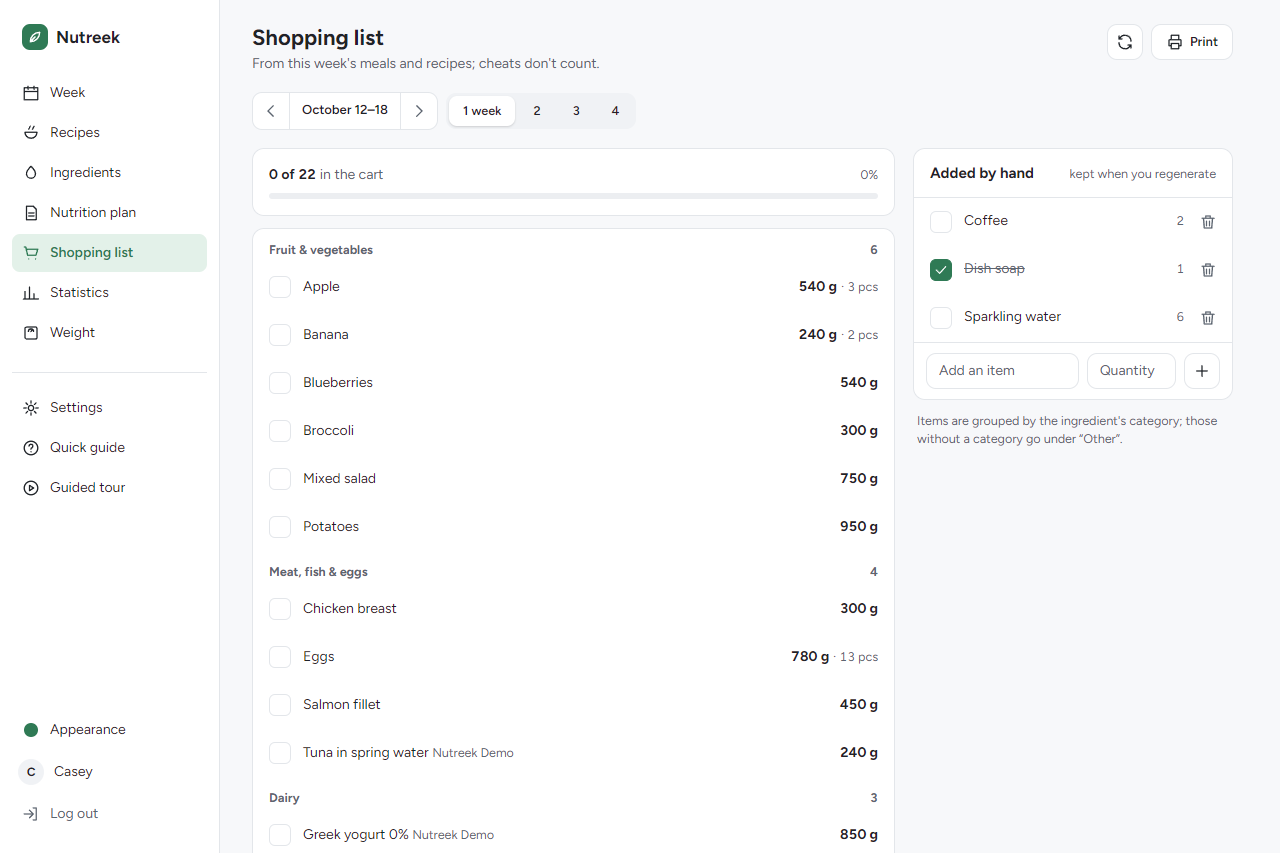
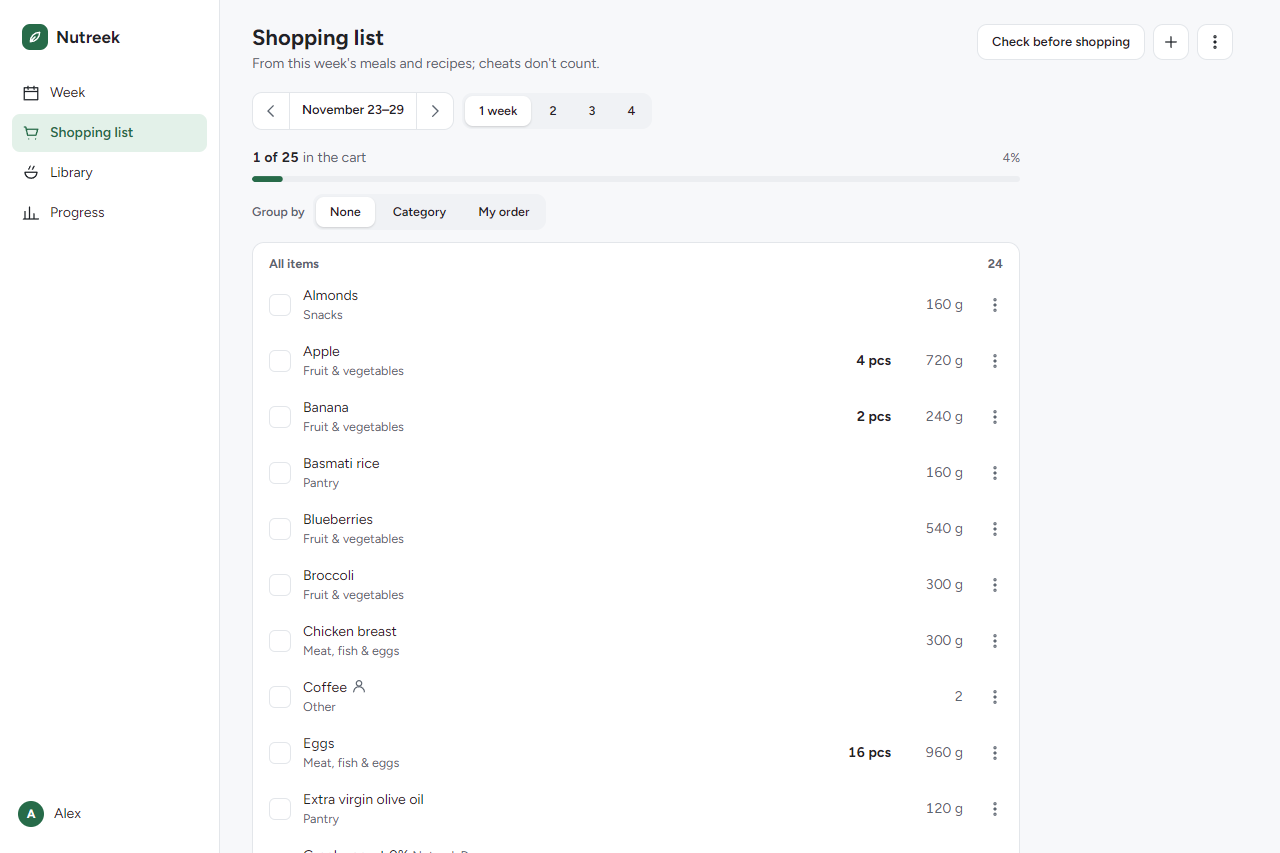
Update Nutreek to v3.0.0: new screenshots and the features since 2.2.0

diff --git a/nutreek.html b/nutreek.html
@@ -7,7 +7,7 @@
     <title>Nutreek — Self-hosted weekly nutrition planner · Carlo Ruggiero</title>
     <meta
       name="description"
-      content="Nutreek is a self-hosted weekly nutrition planner: meal plans, macros per meal, day and week, offline OpenFoodFacts search, a barcode scanner, adaptive TDEE, weight and hydration tracking, and a coach mode. Installable on your phone."
+      content="Nutreek is a self-hosted weekly nutrition planner: meal plans with macros per meal, day and week, offline OpenFoodFacts search, a barcode scanner, a shopping list that can show a connected store's prices, a week shared with up to six other people, reminders, adaptive TDEE, weight and hydration tracking, and a coach mode. Installable on your phone."
     />
     <!-- /data -->
     <meta name="theme-color" content="#22594b" media="(prefers-color-scheme: light)" />
@@ -176,7 +176,7 @@
       <main>
         <section class="paper label-sheet" style="--c: var(--nutreek)">
           <img class="mark" src="nutreek.svg" alt="" width="56" height="56" />
-          <p class="state"><!-- data:nutreek.state --><span data-release="easly1989/nutreek">Shipping, v2.2.0</span>. Open source under AGPL-3.0. Self-hosted.<!-- /data --></p>
+          <p class="state"><!-- data:nutreek.state --><span data-release="easly1989/nutreek">Shipping, v3.0.0</span>. Open source under AGPL-3.0. Self-hosted.<!-- /data --></p>
           <h1><!-- data:nutreek.name -->Nutreek<!-- /data --></h1>
           <p class="lede">
             <!-- data:nutreek.lede -->
@@ -234,8 +234,9 @@
                 </p>
                 <p style="color: var(--paper-ink-2); font-size: 0.92rem">
                   It runs natively as a single Go binary, or as one Docker container. SQLite is
-                  embedded, so there is no separate database to operate. The interface is in English
-                  and Italian, in light and dark, and installs on a phone like an app.
+                  embedded, so there is no separate database to operate. The interface is rows and
+                  rules instead of cards, in English and Italian, in light and dark, and installs on
+                  a phone like an app.
                 </p>
                 <span class="folio">Monday</span>
               </section>
@@ -244,8 +245,8 @@
                 <h2>The week, one day at a time</h2>
                 <div class="shots">
                 <figure class="shot" style="--r: -1.2deg">
-                  <img width="1280" height="853" src="assets/nutreek-week.png" alt="Nutreek week view: day tabs with calories, the day's meals with macros, a calorie ring, water and a workout" loading="lazy" />
-                  <figcaption>The meals with their macros, and beside them the calorie ring, water and workouts.</figcaption>
+                  <img width="1280" height="853" src="assets/nutreek-week.png" alt="Nutreek week view: day tabs with calories, the day's meals with their times and macros, a calorie ring and the protein, carbs and fat bars" loading="lazy" />
+                  <figcaption>The day's meals with their times and macros, and the calorie ring above them.</figcaption>
                 </figure>
                 <figure class="shot" style="--r: 1.5deg">
                   <img width="1280" height="853" src="assets/nutreek-week-dark.png" alt="The week view in dark mode" loading="lazy" />
@@ -261,11 +262,11 @@
                 <div class="day"><b>Wednesday</b><span></span></div>
                 <h2>Features</h2>
                 <ul class="rows">
-                  <li><b>Weekly plans</b><span>A calorie ring and macros per meal, day and week, water and workouts, cheat meals, and one-click copy from the previous week.</span></li>
-                  <li><b>Ingredients</b><span>A local copy of OpenFoodFacts, updated daily: full-text search offline, with product photos.</span></li>
-                  <li><b>Barcode scanner</b><span>Scan a pack from any food picker: your own ingredients first, then the local OpenFoodFacts copy.</span></li>
-                  <li><b>On your phone</b><span>Installs as an app, with a bottom bar. Light, dark or system, in four colours.</span></li>
-                  <li><b>Recipes and templates</b><span>Recipes from ingredients or imported from a URL (schema.org/Recipe), with a photo and quantities you edit in place, in grams or pieces; weekly templates applied in one click.</span></li>
+                  <li><b>Weekly plans</b><span>A calorie ring and macros per meal, day and week. Meals have a time; move a row or swap its ingredient. Cheat meals, and one-click copy of last week.</span></li>
+                  <li><b>Ingredients and scanner</b><span>A local OpenFoodFacts copy, updated daily: offline full-text search with photos, and a barcode scanner in every food picker.</span></li>
+                  <li><b>Recipes and templates</b><span>Built from ingredients or imported from a URL, with a photo you can hide in the list; weekly templates in one click.</span></li>
+                  <li><b>Shopping list</b><span>One list for the week and what you add by hand: by name, category or your own order. Tick what you already have.</span></li>
+                  <li><b>On your phone</b><span>Installs as an app with a four-destination bottom bar, and sends reminders for water, training and meals, even when closed.</span></li>
                 </ul>
                 <span class="folio">Wednesday</span>
               </section>
@@ -273,11 +274,11 @@
                 <div class="day"><b>Thursday</b><span></span></div>
                 <h2>More features</h2>
                 <ul class="rows">
-                  <li><b>Auto plan generator</b><span>A greedy planner builds a whole week from meal variants to hit your macro targets.</span></li>
-                  <li><b>Adaptive TDEE</b><span>Estimates your real energy needs from your weight and intake trend, and suggests target updates.</span></li>
-                  <li><b>Weight, hydration, workouts</b><span>Daily tracking with trend charts, a workout log with calories burned and a weekly dashboard.</span></li>
-                  <li><b>Coach mode</b><span>A plan library, client assignment, frozen plan history and a coach dashboard.</span></li>
-                  <li><b>Shopping list and REST API</b><span>The week's shopping grouped by aisle, with a cart and a two-column print, and a bearer-token REST API.</span></li>
+                  <li><b>Household</b><span>Up to six other people share your week, each with a calorie goal and no login. Quantities scale to the goal, and the shopping list adds everyone up.</span></li>
+                  <li><b>Stores</b><span>Connect a grocery store with a click (Conad comes with Nutreek): its products appear in the ingredient search, and the shopping list shows indicative prices.</span></li>
+                  <li><b>Auto plan and adaptive TDEE</b><span>A greedy planner builds a week from meal variants to hit your macros, and your real energy needs are estimated from your weight and intake trend.</span></li>
+                  <li><b>Weight, hydration, workouts</b><span>Daily tracking with trend charts, and a workout log with activities of your own and an estimate of the calories burned.</span></li>
+                  <li><b>Coach mode and API</b><span>A plan library, client assignment and a coach dashboard, and a bearer-token REST API.</span></li>
                 </ul>
                 <span class="folio">Thursday</span>
               </section>
@@ -290,7 +291,7 @@
                 <div class="shots">
                   <figure class="shot" style="--r: -2deg"><img width="1280" height="853" src="assets/nutreek-scanner.png" alt="The barcode scanner open over the food picker" loading="lazy" /><figcaption>The barcode scanner, from the food picker.</figcaption></figure>
                   <figure class="shot" style="--r: 1.5deg"><img width="1280" height="853" src="assets/nutreek-barcode.png" alt="The scanned product ready to add" loading="lazy" /><figcaption>The scanned product: pick the grams, see the calories.</figcaption></figure>
-                  <figure class="shot" style="--r: 1deg"><img width="1920" height="1280" src="assets/nutreek-phone.png" alt="Three phone screens: the week, the scanner and the shopping list" loading="lazy" /><figcaption>On the phone, with the bottom bar.</figcaption></figure>
+                  <figure class="shot" style="--r: 1deg"><img width="1920" height="1280" src="assets/nutreek-phone.png" alt="Three phone screens: the week, the scanner and the shopping list" loading="lazy" /><figcaption>On the phone, with four destinations in the bottom bar.</figcaption></figure>
                   <figure class="shot" style="--r: -1.5deg"><img width="1280" height="853" src="assets/nutreek-recipes.png" alt="Recipe list with calories and macros per serving" loading="lazy" /><figcaption>Recipes, with macros per serving.</figcaption></figure>
                 </div>
                 <span class="folio">Friday</span>
@@ -299,8 +300,8 @@
                 <div class="day"><b>Saturday</b><span></span></div>
                 <h2>Planning ahead</h2>
                 <div class="shots">
-                  <figure class="shot" style="--r: 1.5deg"><img width="1280" height="853" src="assets/nutreek-plan.png" alt="Nutrition plan with the variants of breakfast and lunch" loading="lazy" /><figcaption>The plan: variants for each meal.</figcaption></figure>
-                  <figure class="shot" style="--r: -1deg"><img width="1280" height="853" src="assets/nutreek-shopping.png" alt="Shopping list grouped by aisle" loading="lazy" /><figcaption>The shopping list, by aisle.</figcaption></figure>
+                  <figure class="shot" style="--r: 1.5deg"><img width="1280" height="853" src="assets/nutreek-plan.png" alt="Nutrition plan with the variants of each meal as closed rows, the first one open" loading="lazy" /><figcaption>The plan: variants for each meal, open on a tap.</figcaption></figure>
+                  <figure class="shot" style="--r: -1deg"><img width="1280" height="853" src="assets/nutreek-shopping.png" alt="Shopping list with a switch to group by nothing, by category or in your own order" loading="lazy" /><figcaption>The shopping list: by name, by category or in your order.</figcaption></figure>
                   <figure class="shot" style="--r: -2deg"><img width="1280" height="853" src="assets/nutreek-stats.png" alt="Statistics in dark mode with estimated energy needs" loading="lazy" /><figcaption>Statistics and adaptive TDEE.</figcaption></figure>
                   <figure class="shot" style="--r: 1deg"><img width="1280" height="853" src="assets/nutreek-coach.png" alt="Coach panel with a client and the plan library" loading="lazy" /><figcaption>The coach panel and plan library.</figcaption></figure>
                 </div>

diff --git a/pro/nutreek.html b/pro/nutreek.html
@@ -6,7 +6,7 @@
     <title>Nutreek — Self-hosted weekly nutrition planner · Carlo Ruggiero</title>
     <meta
       name="description"
-      content="Nutreek is a self-hosted weekly nutrition planner: meal plans, macros per meal, day and week, offline OpenFoodFacts search, a barcode scanner, adaptive TDEE, weight and hydration tracking, and a coach mode. Installable on your phone."
+      content="Nutreek is a self-hosted weekly nutrition planner: meal plans with macros per meal, day and week, offline OpenFoodFacts search, a barcode scanner, a shopping list that can show a connected store's prices, a week shared with up to six other people, reminders, adaptive TDEE, weight and hydration tracking, and a coach mode. Installable on your phone."
     />
     <meta name="theme-color" content="#f4f6f5" media="(prefers-color-scheme: light)" />
     <meta name="theme-color" content="#0f1512" media="(prefers-color-scheme: dark)" />
@@ -40,7 +40,7 @@
       <header class="ph">
         <img src="../nutreek.svg" alt="" width="64" height="64" />
         <div>
-          <p class="st"><span data-release="easly1989/nutreek">Shipping, v2.2.0</span>. Open source under AGPL-3.0. Self-hosted.</p>
+          <p class="st"><span data-release="easly1989/nutreek">Shipping, v3.0.0</span>. Open source under AGPL-3.0. Self-hosted.</p>
           <h1>Nutreek</h1>
           <p class="lede">
             A self-hosted weekly nutrition planner — plan meals, track macros, and let adaptive TDEE
@@ -58,9 +58,11 @@
           <section aria-labelledby="what-h">
             <h2 id="what-h">What it is</h2>
             <p>
-              Nutreek is a self-hosted weekly nutrition planner: meal plans, macros per meal, day and
-              week, offline OpenFoodFacts search, a barcode scanner, adaptive TDEE, weight and
-              hydration tracking, and a coach mode. Installable on your phone.
+              Nutreek is a self-hosted weekly nutrition planner: meal plans with macros per meal, day
+              and week, offline OpenFoodFacts search, a barcode scanner, a shopping list that can show
+              a connected store's prices, a week shared with up to six other people, reminders,
+              adaptive TDEE, weight and hydration tracking, and a coach mode. Installable on your
+              phone.
             </p>
           </section>
           <section aria-labelledby="glance-h">
@@ -77,12 +79,12 @@
         </div>
         <div class="shots">
           <figure class="shot">
-            <img src="../assets/nutreek-week.png" alt="Nutreek week view: day tabs with calories, the day's meals with macros, a calorie ring, water and a workout" width="1280" height="853" loading="lazy" />
-            <figcaption>The meals with their macros, and beside them the calorie ring, water and workouts.</figcaption>
+            <img src="../assets/nutreek-week.png" alt="Nutreek week view: day tabs with calories, the day's meals with their times and macros, a calorie ring and the protein, carbs and fat bars" width="1280" height="853" loading="lazy" />
+            <figcaption>The day's meals with their times and macros, and the calorie ring above them.</figcaption>
           </figure>
           <figure class="shot">
             <img src="../assets/nutreek-phone.png" alt="Three phone screens: the week, the scanner and the shopping list" width="1920" height="1280" loading="lazy" />
-            <figcaption>On the phone, with the bottom bar.</figcaption>
+            <figcaption>On the phone, with four destinations in the bottom bar.</figcaption>
           </figure>
           <figure class="shot">
             <img src="../assets/nutreek-stats.png" alt="Statistics in dark mode with estimated energy needs" width="1280" height="853" loading="lazy" />

diff --git a/index.html b/index.html
@@ -1589,7 +1589,7 @@
             <li class="row" style="--c: #2f7d32">
               <a href="pro/nutreek.html">
                 <img src="nutreek.svg" alt="" width="44" height="44" />
-                <span><b>Nutreek</b><span class="st"><span data-release="easly1989/nutreek">Shipping, v2.2.0</span>. Open source under AGPL-3.0. Self-hosted.</span></span>
+                <span><b>Nutreek</b><span class="st"><span data-release="easly1989/nutreek">Shipping, v3.0.0</span>. Open source under AGPL-3.0. Self-hosted.</span></span>
                 <p>
                   A self-hosted weekly nutrition planner — plan meals, track macros, and let
                   adaptive TDEE keep your targets honest.

diff --git a/CHANGELOG.md b/CHANGELOG.md
@@ -5,6 +5,9 @@ a deploy, and a release is a tag on the `main` that was live at that moment.
 
 ## Unreleased
 
+- **Nutreek 3.0.0:** the page and its professional page follow the release: new screenshots of the
+  rebuilt interface, and the features now cover Household, Stores, reminders, workouts of your
+  own and the shopping list's new groupings.
 - **Archive:** a page of the public projects I no longer maintain (ffxiv_act_dfassist,
   ffxiv_actor, coordinator-monitor and git-svn-merge), each linked to its repository on GitHub. In
   the room it is a wastebasket on the floor by the right wall; on the professional pages it is a
